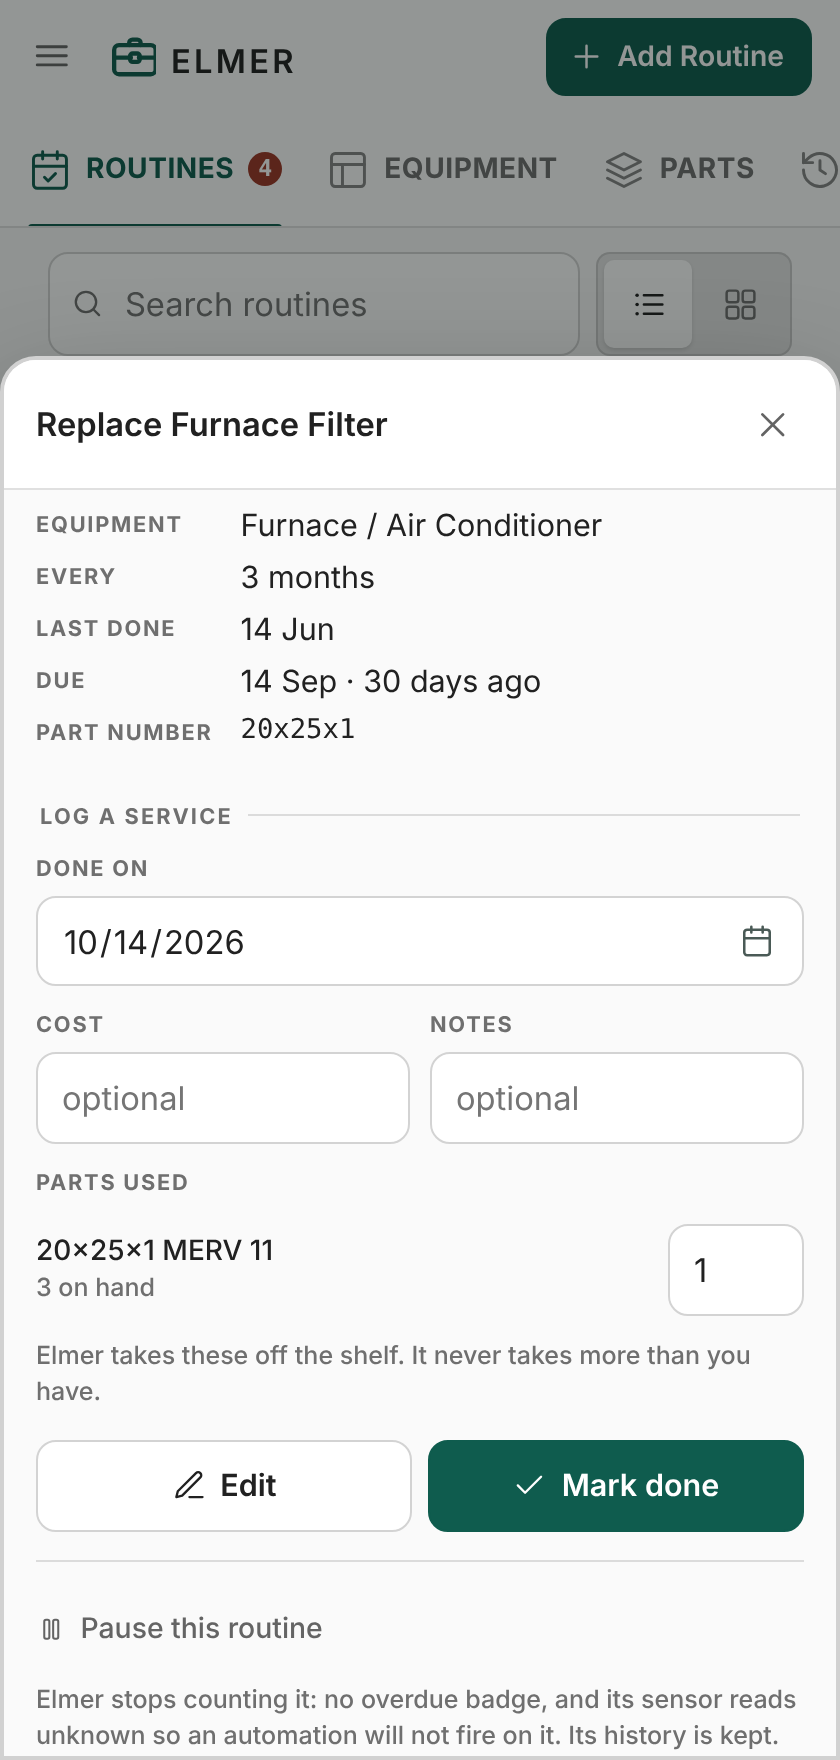
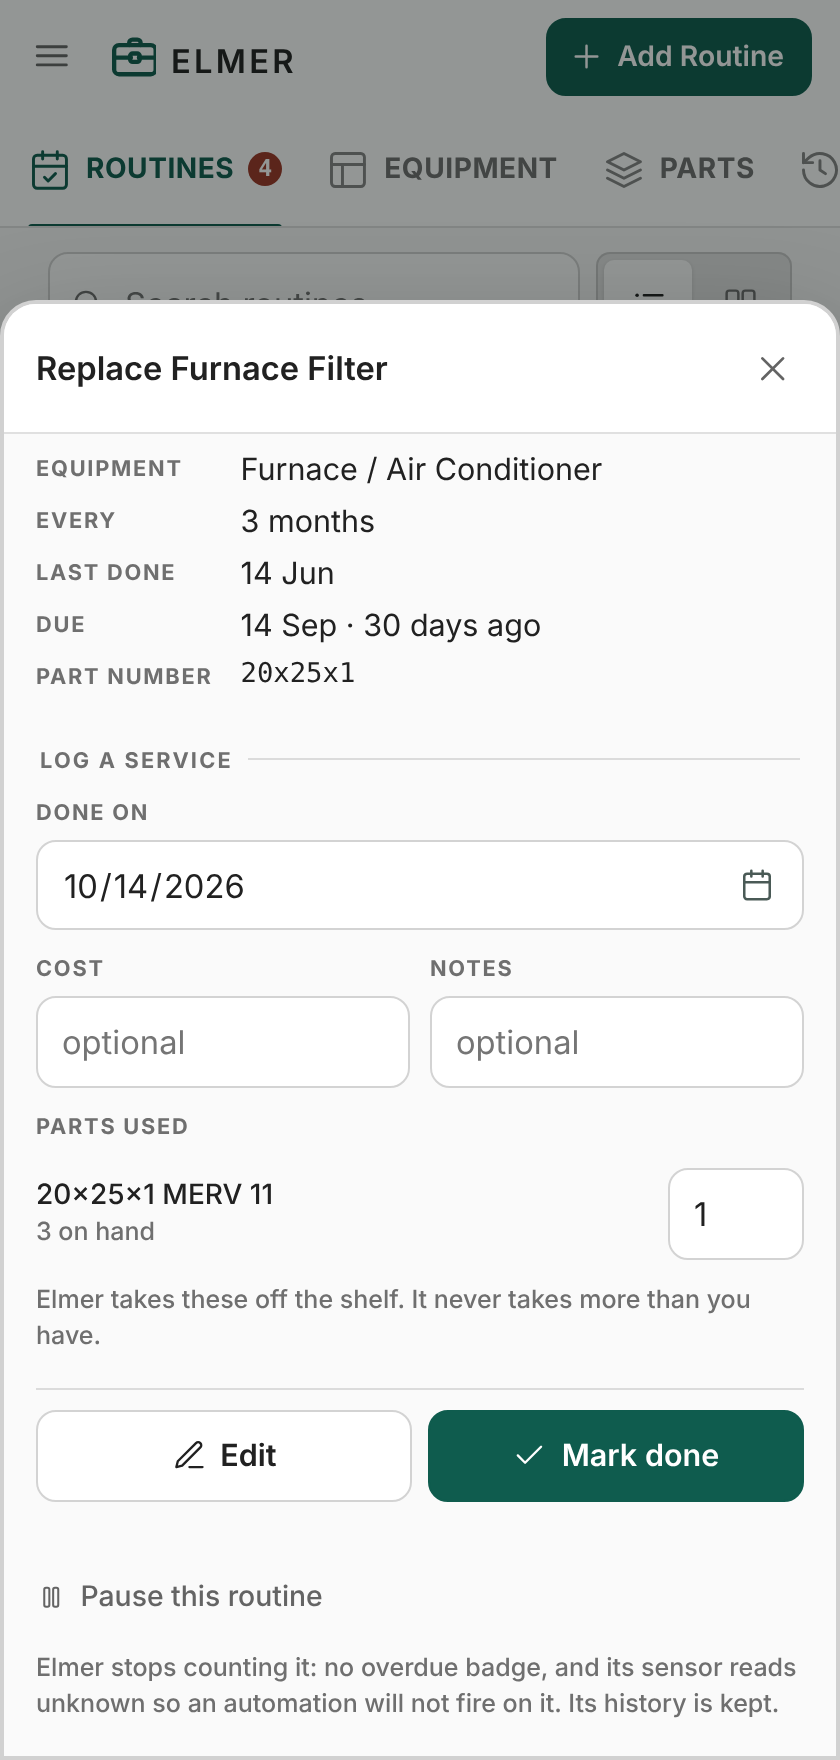
Limit desktop cards and fix footer
This removes the 4-card desktop option, keeps the phone layout at 1–2 columns, and updates the settings/store normalization and verification checks to match. It also wraps the action buttons and pause row in one sticky sheet footer so the footer spacing and sticky behavior remain correct. The panel version is bumped to 1.4.0.

diff --git a/custom_components/elmer/frontend/views.js b/custom_components/elmer/frontend/views.js
@@ -936,7 +936,7 @@ export function settingsView(state) {
         <div class="field">
           <label for="cards"><span class="scope">Desktop</span>Cards per row</label>
           <select id="cards" data-act="set-cards">
-            ${[2, 3, 4].map((n) => html`<option value="${n}"${raw((s.cardsWide || 3) === n ? ' selected' : '')}>${n}</option>`)}
+            ${[2, 3].map((n) => html`<option value="${n}"${raw((s.cardsWide || 3) === n ? ' selected' : '')}>${n}</option>`)}
           </select>
         </div>
         <div class="field">
@@ -947,7 +947,7 @@ export function settingsView(state) {
         </div>
       </div>
       <div class="field">
-        <div class="hint">Only the card view uses these; the list view is one row deep whatever happens. A phone is offered fewer because it has less to give: at four across, a card is about 82px wide.</div>
+        <div class="hint">Only the card view uses these; the list view is one row deep whatever happens. A phone is offered fewer because it has less to give: two cards across a phone are about 175px each.</div>
       </div>
       <!-- Named for where the badge actually appears. Home Assistant gives a
            custom panel's own sidebar row no badge, so this is the nearest
@@ -1425,22 +1425,29 @@ export function logForm(state, taskId) {
       })}
       <div class="hint">Elmer takes these off the shelf. It never takes more than you have.</div>
     </div>` : '')}
-    <div class="btnrow">
-      <button class="btn" data-act="edit-routine" data-id="${task.id}">${raw(icon('edit', 16))}Edit</button>
-      ${raw(task.paused
-        ? `<button class="btn" data-variant="primary" data-act="resume" data-id="${esc(task.id)}">${icon('play', 16)}Resume</button>`
-        : `<button class="btn" data-variant="primary" data-act="save-log" data-id="${esc(task.id)}">${icon('check', 16)}Mark done</button>`)}
-    </div>
-    <!-- Below the buttons rather than among them: pausing is a thing you do
-         rarely and on purpose, and it should not sit where the thumb lands
-         for the thing you do every time. -->
-    <div class="pauserow">
-      ${raw(task.paused
-        ? `<button class="linkbtn" data-act="resume" data-id="${esc(task.id)}">${icon('play', 14)}Resume this routine</button>`
-        : `<button class="linkbtn" data-act="pause" data-id="${esc(task.id)}">${icon('pause', 14)}Pause this routine</button>`)}
-      <div class="hint">${raw(task.paused
-        ? 'It is counting again, and its sensor reports days until due.'
-        : 'Elmer stops counting it: no overdue badge, and its sensor reads unknown so an automation will not fire on it. Its history is kept.')}</div>
+    <!-- Buttons and the pause row are one footer, not two things that happen
+         to be last. Loose, the pause row took the buttons' :last-child and
+         with it the sticky footer and its bottom padding, and making the
+         buttons sticky on their own would then pin them over the pause row
+         rather than above it. -->
+    <div class="sheetfoot">
+      <div class="btnrow">
+        <button class="btn" data-act="edit-routine" data-id="${task.id}">${raw(icon('edit', 16))}Edit</button>
+        ${raw(task.paused
+          ? `<button class="btn" data-variant="primary" data-act="resume" data-id="${esc(task.id)}">${icon('play', 16)}Resume</button>`
+          : `<button class="btn" data-variant="primary" data-act="save-log" data-id="${esc(task.id)}">${icon('check', 16)}Mark done</button>`)}
+      </div>
+      <!-- Below the buttons rather than among them: pausing is a thing you do
+           rarely and on purpose, and it should not sit where the thumb lands
+           for the thing you do every time. -->
+      <div class="pauserow">
+        ${raw(task.paused
+          ? `<button class="linkbtn" data-act="resume" data-id="${esc(task.id)}">${icon('play', 14)}Resume this routine</button>`
+          : `<button class="linkbtn" data-act="pause" data-id="${esc(task.id)}">${icon('pause', 14)}Pause this routine</button>`)}
+        <div class="hint">${raw(task.paused
+          ? 'It is counting again, and its sensor reports days until due.'
+          : 'Elmer stops counting it: no overdue badge, and its sensor reads unknown so an automation will not fire on it. Its history is kept.')}</div>
+      </div>
     </div>`;
 }
 

diff --git a/custom_components/elmer/frontend/styles.js b/custom_components/elmer/frontend/styles.js
@@ -1512,7 +1512,8 @@ a.btn { text-decoration: none; }
    taller than a phone no matter how much of the window the sheet is given, and
    a Save or Delete you have to go looking for reads as missing. Sticky keeps
    the row in flow, so it also sits at the natural end of a short form. */
-.sheet .inner > .btnrow:last-child {
+.sheet .inner > .btnrow:last-child,
+.sheet .inner > .sheetfoot:last-child {
   position: sticky;
   bottom: 0;
   margin-top: 16px;
@@ -1520,6 +1521,11 @@ a.btn { text-decoration: none; }
   background: var(--paper);
   border-top: 1px solid var(--line);
 }
+/* A footer that carries more than the buttons: the row inside it is already
+   spaced by the footer's own padding, and the rule across the top belongs to
+   the footer rather than to each thing in it. */
+.sheet .inner > .sheetfoot > .btnrow { margin-top: 0; }
+.sheet .inner > .sheetfoot > .pauserow { border-top: 0; }
 
 /* ---------- toast ---------- */
 
@@ -1659,15 +1665,14 @@ a.btn { text-decoration: none; }
 }
 
 /* Cards per row, on exactly the arrangement above and for the same reason: a
-   count chosen at a desk should not follow you onto a phone, where four
-   across leaves each card narrower than the name it carries. data-cards
+   count chosen at a desk should not follow you onto a phone, where a third
+   column leaves each card narrower than the name it carries. data-cards
    applies at every width and data-cards-narrow takes over below the
    breakpoint, so the two can never disagree and nothing has to listen for a
    resize. Both are always set, "3" and "2" included, or the wide rule would
    go on winning on a phone. */
 :host([data-cards="2"]) { --cards: 2; }
 :host([data-cards="3"]) { --cards: 3; }
-:host([data-cards="4"]) { --cards: 4; }
 
 @media (max-width: 759px) {
   :host([data-cards-narrow="1"]) { --cards: 1; }

diff --git a/tools/harness/fake-hass.js b/tools/harness/fake-hass.js
@@ -377,7 +377,7 @@ panel.hass = {
   user: { is_admin: true, name: 'Phil' },
 };
 panel.narrow = params.get('narrow') === '1';
-panel.panel = { config: { version: '1.3.0' } };
+panel.panel = { config: { version: '1.4.0' } };
 document.body.appendChild(panel);
 
 // Handles the panel's request to open Home Assistant's sidebar, which proves

diff --git a/custom_components/elmer/store.py b/custom_components/elmer/store.py
@@ -53,9 +53,9 @@ DEFAULT_SETTINGS: dict[str, Any] = {
     "viewParts": "list",
     # How many cards sit in a row of the card view. Two of them for the same
     # reason the text sizes split: a fixed count applies at every width unless
-    # told otherwise, and four across a phone leaves each card about 82px
-    # wide — narrower than the word it has to hold. The ranges differ because
-    # the screens do; a phone has room for one or two and no more.
+    # told otherwise, and a phone has nothing like the room a monitor has. The
+    # ranges differ because the screens do — two or three on a desktop, one or
+    # two on a phone, past which a card is narrower than the name on it.
     "cardsWide": 3,
     "cardsNarrow": 2,
     # How the equipment and parts lists are ordered, and which way round.
@@ -191,9 +191,9 @@ def normalize(raw: Any) -> dict[str, Any]:
     # nothing, so anything unrecognised goes back to the default rather than
     # through. The allowed sets are the panel's SORT_FIELDS, kept in step by
     # verify-store.py rather than by memory.
-    # Clamped rather than rejected: a file naming 6 wanted as many as it could
-    # get, and 4 is as many as there are. The ranges are the panel's.
-    settings["cardsWide"] = min(4, max(2, _int(settings.get("cardsWide"), 3)))
+    # Clamped rather than rejected: a file naming 6 wanted as many as it
+    # could get, and 3 is as many as there are. The ranges are the panel's.
+    settings["cardsWide"] = min(3, max(2, _int(settings.get("cardsWide"), 3)))
     settings["cardsNarrow"] = min(2, max(1, _int(settings.get("cardsNarrow"), 2)))
     if settings.get("sortEquipment") not in ("name", "date"):
         settings["sortEquipment"] = DEFAULT_SETTINGS["sortEquipment"]

diff --git a/tools/verify-store.py b/tools/verify-store.py
@@ -164,7 +164,7 @@ async def main() -> int:
     # many as it could get.
     check("the card counts start at three and two",
           (fresh["cardsWide"], fresh["cardsNarrow"]), (3, 2))
-    for given, want in ((2, 2), (3, 3), (4, 4), (6, 4), (1, 2), (0, 2), ("x", 3), (None, 3)):
+    for given, want in ((2, 2), (3, 3), (4, 3), (6, 3), (1, 2), (0, 2), ("x", 3), (None, 3)):
         got = store_mod.normalize({"settings": {"cardsWide": given}})["settings"]["cardsWide"]
         check(f"a desktop count of {given!r} lands on {want}", got, want)
     for given, want in ((1, 1), (2, 2), (4, 2), (0, 1), ("x", 2)):
